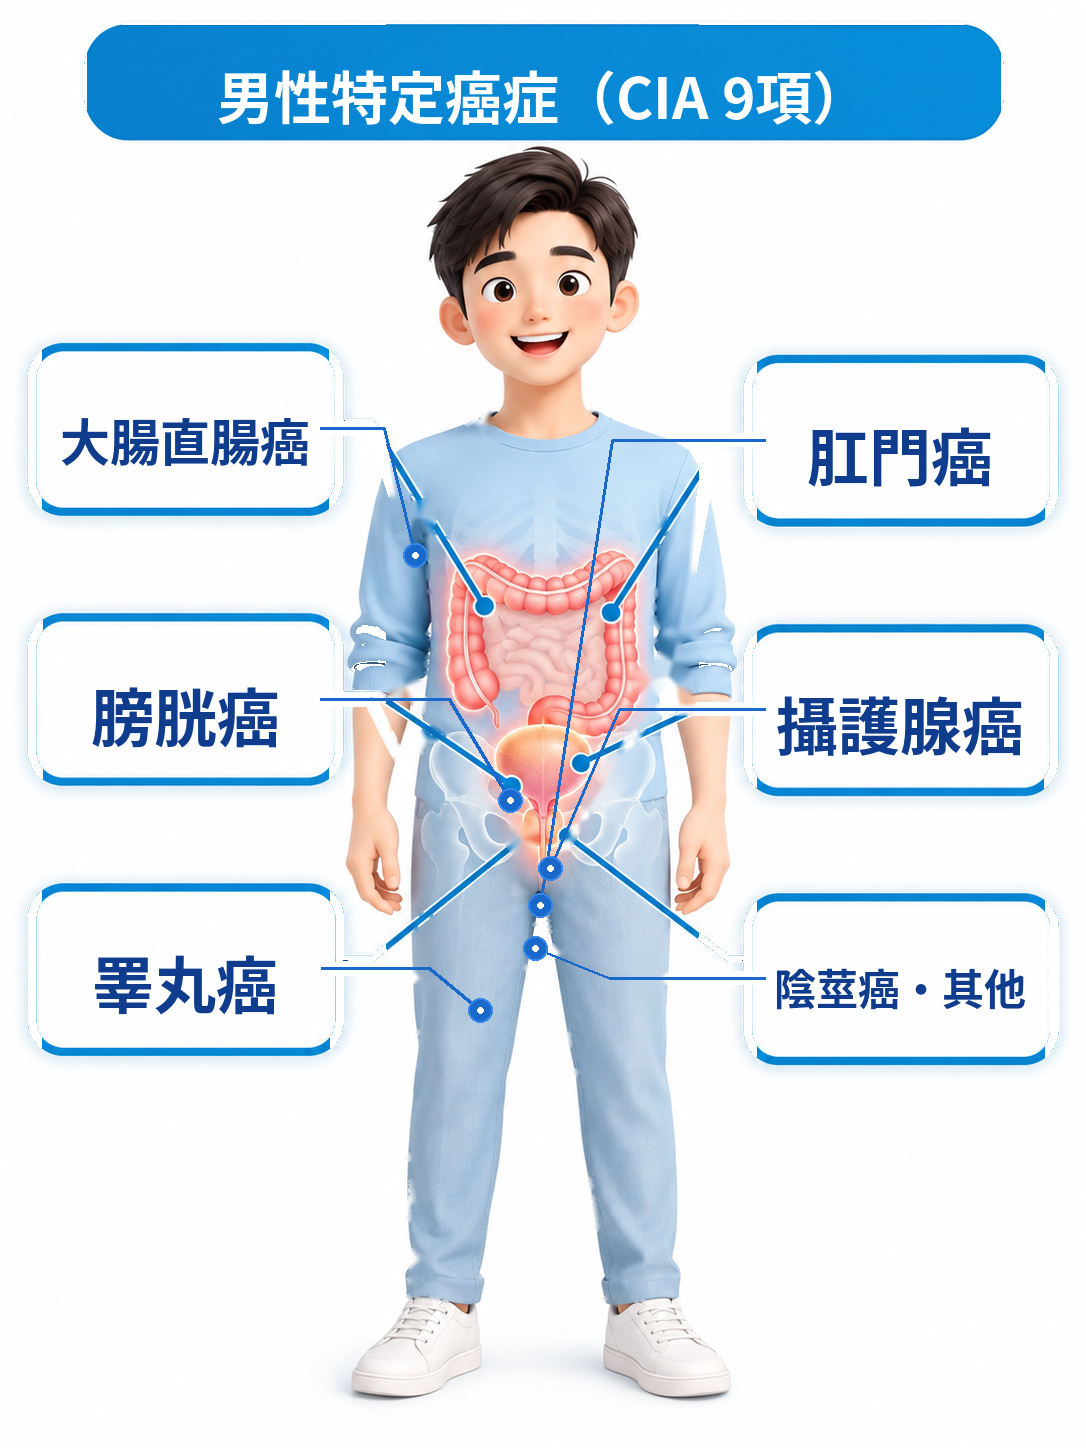
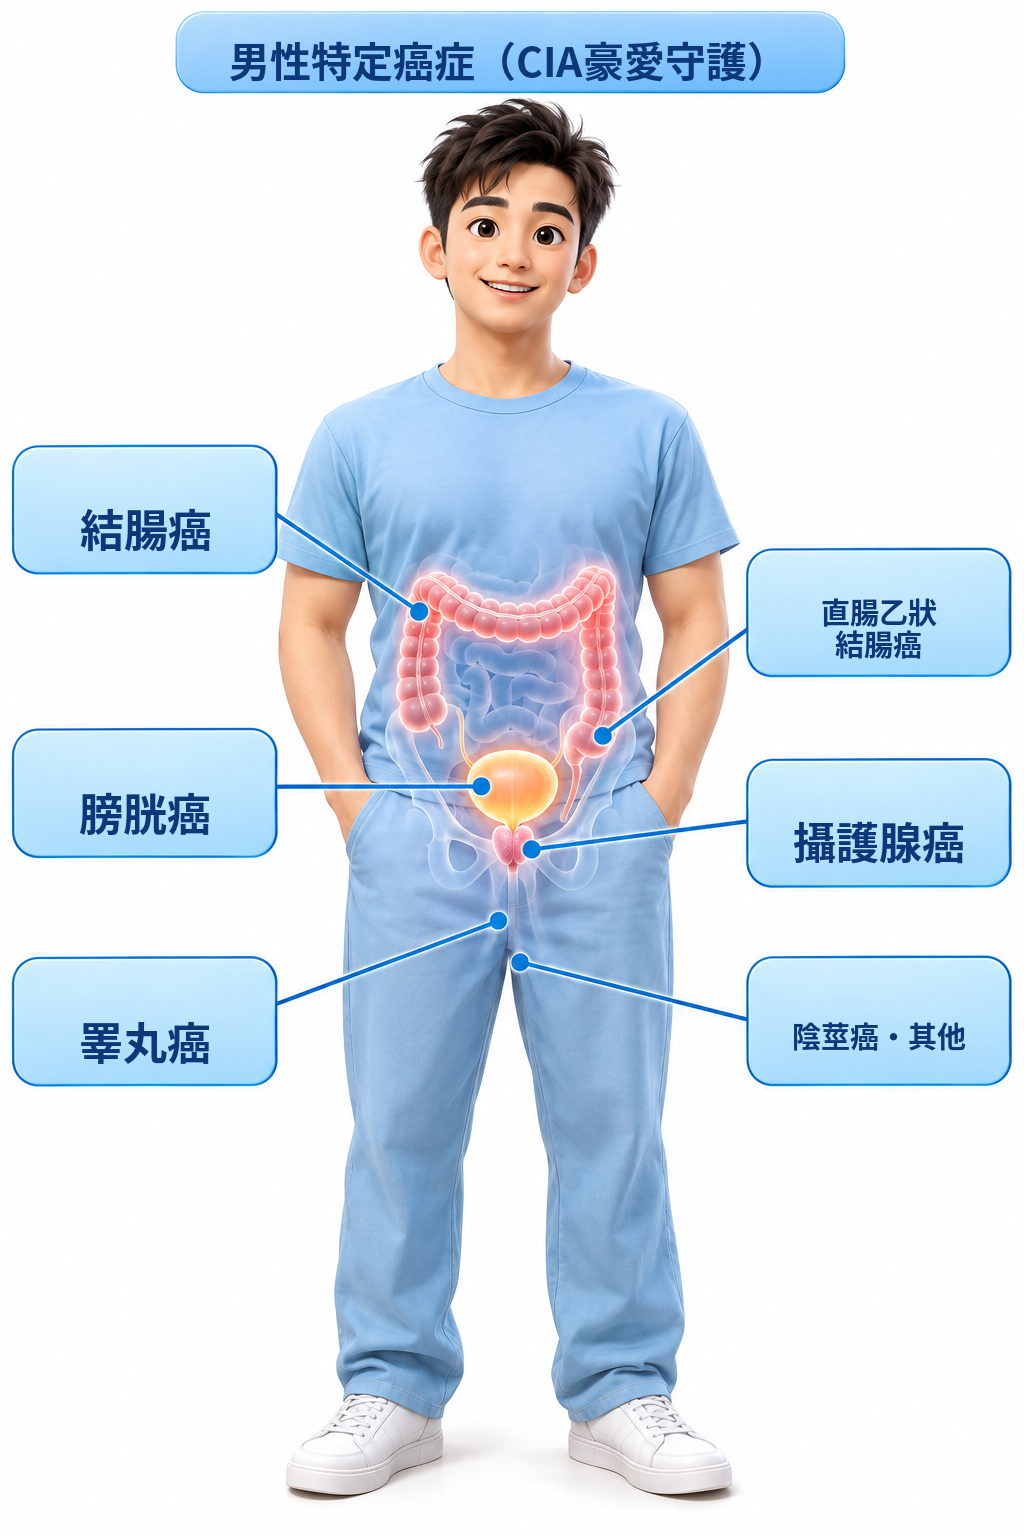
Label verified GPT body art; restore both gender charts
Text-only Pillow labels on raw2 male/female bases. Rebuild cancer
data and chip highlight boxes; show body images for CIA and CIB.

diff --git a/index.html b/index.html
@@ -234,10 +234,6 @@ body.theme-cib{--accent:#c2185b; --accent-soft:#fce4ec}
 .cancer-sec h2{margin:0 0 4px; font-size:17px; flex-wrap:wrap}
 .cancer-note{margin:0 0 8px; font-size:12.5px; color:var(--muted); line-height:1.35}
 .cancer-grid{display:grid; gap:12px; grid-template-columns:1fr}
-/* TEMP: hide body chart until corrected GPT art arrives */
-.body-fig{display:none !important}
-.cancer-grid{grid-template-columns:1fr !important}
-.cancer-side{width:100%; max-width:none}
 
 @media (min-width:900px){
   .cancer-grid{grid-template-columns:minmax(0,1.15fr) minmax(240px,0.9fr); align-items:stretch}
@@ -516,13 +512,13 @@ const SPECIFIC_CANCERS = {
       {id:'c18', short:'結腸癌', callout:'colo',
         intro:'大腸常見惡性腫瘤，早期常無明顯症狀。',
         cost:'自費標靶約 每月10～30萬', costSrc:'公開藥價整理（癌思停／爾必得舒等）'},
-      {id:'c19', short:'直腸乙狀結腸癌', callout:'colo',
+      {id:'c19', short:'直腸乙狀結腸癌', callout:'rect',
         intro:'直腸與乙狀結腸交接處的惡性腫瘤。',
         cost:'自費標靶約 每月10～30萬', costSrc:'公開藥價整理（癌思停／爾必得舒等）'},
-      {id:'c20', short:'直腸癌', callout:'colo',
+      {id:'c20', short:'直腸癌', callout:'rect',
         intro:'靠近肛門的大腸惡性腫瘤，可影響排便。',
         cost:'自費標靶約 每月10～30萬', costSrc:'公開藥價整理（癌思停／爾必得舒等）'},
-      {id:'c21', short:'肛門癌', callout:'anus',
+      {id:'c21', short:'肛門癌', callout:'rect',
         intro:'肛門及肛管的惡性腫瘤，相對少見。',
         cost:'自費標靶／免疫約 每月10～30萬', costSrc:'亞東醫院：免疫每次約5～15萬'},
       {id:'c60', short:'陰莖癌', callout:'penile',
@@ -541,7 +537,7 @@ const SPECIFIC_CANCERS = {
         intro:'泌尿系統常見惡性腫瘤，血尿為重要警訊。',
         cost:'自費免疫約 每次5～15萬', costSrc:'亞東醫院腫瘤科說明'}
     ],
-    callouts: [{"id": "colo", "organ": "大腸直腸癌", "box": {"left": 4.328, "top": 23.895, "width": 25.414, "height": 11.395}, "items": ["c18", "c19", "c20"]}, {"id": "bladder", "organ": "膀胱癌", "box": {"left": 4.42, "top": 42.541, "width": 25.322, "height": 11.464}, "items": ["c67"]}, {"id": "testis", "organ": "睪丸癌", "box": {"left": 4.328, "top": 61.188, "width": 25.506, "height": 11.395}, "items": ["c62"]}, {"id": "anus", "organ": "肛門癌", "box": {"left": 70.166, "top": 24.724, "width": 25.506, "height": 11.326}, "items": ["c21"]}, {"id": "prostate", "organ": "攝護腺癌", "box": {"left": 70.166, "top": 43.301, "width": 25.414, "height": 11.326}, "items": ["c61"]}, {"id": "penile", "organ": "陰莖癌・其他", "box": {"left": 70.166, "top": 61.878, "width": 25.506, "height": 11.326}, "items": ["c60", "c63"]}]
+    callouts: [{"id": "colo", "organ": "結腸癌", "box": {"left": 1.855, "top": 30.339, "width": 24.902, "height": 6.836}, "items": ["c18"]}, {"id": "bladder", "organ": "膀胱癌", "box": {"left": 1.66, "top": 48.763, "width": 25.098, "height": 6.901}, "items": ["c67"]}, {"id": "testis", "organ": "睪丸癌", "box": {"left": 1.562, "top": 63.672, "width": 25.195, "height": 6.836}, "items": ["c62"]}, {"id": "rect", "organ": "直腸乙狀結腸癌", "box": {"left": 73.242, "top": 37.044, "width": 25.195, "height": 6.836}, "items": ["c19", "c20", "c21"]}, {"id": "prostate", "organ": "攝護腺癌", "box": {"left": 73.242, "top": 50.781, "width": 25.195, "height": 6.771}, "items": ["c61"]}, {"id": "penile", "organ": "陰莖癌・其他", "box": {"left": 73.34, "top": 63.607, "width": 25.098, "height": 6.901}, "items": ["c60", "c63"]}]
   },
   CIB: {
     product: '真馨守護',
@@ -585,7 +581,7 @@ const SPECIFIC_CANCERS = {
         intro:'與妊娠相關的罕見惡性腫瘤。',
         cost:'自費標靶／免疫約 每月10～30萬', costSrc:'亞東醫院：免疫每次約5～15萬'}
     ],
-    callouts: [{"id": "breast", "organ": "乳癌", "box": {"left": 4.492, "top": 14.258, "width": 25.488, "height": 10.938}, "items": ["c50"]}, {"id": "ovary", "organ": "卵巢癌", "box": {"left": 4.004, "top": 34.505, "width": 24.023, "height": 10.938}, "items": ["c56"]}, {"id": "pelvic", "organ": "外陰癌・陰道癌・胎盤癌", "box": {"left": 4.004, "top": 55.469, "width": 23.438, "height": 10.938}, "items": ["c51", "c52", "c57", "c58"]}, {"id": "skin", "organ": "皮膚癌", "box": {"left": 69.531, "top": 14.193, "width": 26.465, "height": 10.938}, "items": ["c43", "c44"]}, {"id": "uterus", "organ": "子宮體癌", "box": {"left": 72.754, "top": 32.031, "width": 23.047, "height": 10.872}, "items": ["c54", "c55"]}, {"id": "cervix", "organ": "子宮頸癌", "box": {"left": 72.07, "top": 56.25, "width": 23.926, "height": 11.003}, "items": ["c53"]}]
+    callouts: [{"id": "breast", "organ": "乳癌", "box": {"left": 4.688, "top": 12.109, "width": 25.0, "height": 11.328}, "items": ["c50"]}, {"id": "ovary", "organ": "卵巢癌", "box": {"left": 4.492, "top": 47.917, "width": 23.73, "height": 9.701}, "items": ["c56"]}, {"id": "pelvic", "organ": "外陰・陰道・胎盤癌", "box": {"left": 4.395, "top": 66.146, "width": 25.098, "height": 10.938}, "items": ["c51", "c52", "c57", "c58"]}, {"id": "skin", "organ": "皮膚癌", "box": {"left": 70.508, "top": 20.378, "width": 25.098, "height": 11.328}, "items": ["c43", "c44"]}, {"id": "uterus", "organ": "子宮體癌", "box": {"left": 71.973, "top": 44.336, "width": 23.828, "height": 10.091}, "items": ["c54", "c55"]}, {"id": "cervix", "organ": "子宮頸癌", "box": {"left": 70.312, "top": 61.458, "width": 25.488, "height": 10.938}, "items": ["c53"]}]
   }
 };
 const SPECIFIC_BONUS = [
